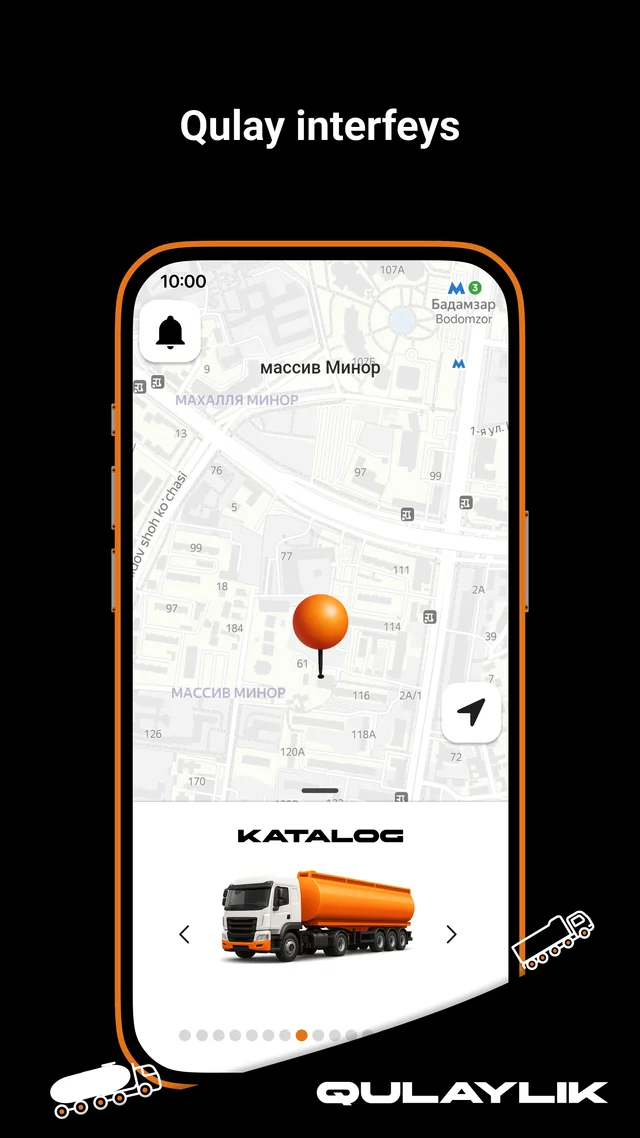
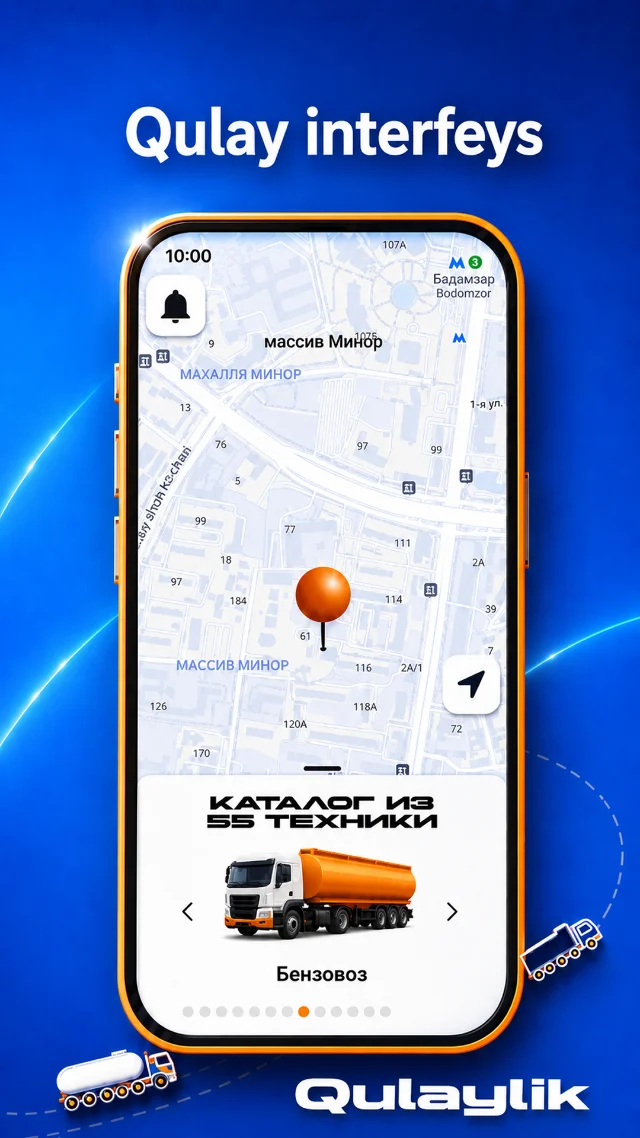
новая страница на сайте для направление трафика на тг канал_тест_оранжевый_13

diff --git a/site/index.css b/site/index.css
@@ -628,8 +628,13 @@ ul, ol {
     max-height: 360px;
   }
 
-  .hero-phone-secondary {
+  .hero-phone:not(.hero-phone-secondary) {
     display: none;
+  }
+
+  .hero-phone-secondary {
+    display: block;
+    transform: none;
   }
 }
 

diff --git a/index.html b/index.html
@@ -149,7 +149,7 @@
 
         <div class="hero-visual animate-on-scroll animate-delay-2">
           <img class="hero-phone" src="/public/1-hero.webp" alt="Интерфейс Reyzapp с картой" width="640" height="1138" loading="eager" fetchpriority="high" decoding="async" />
-          <img class="hero-phone hero-phone-secondary" data-src="/public/3-hero.webp" alt="Отслеживание техники на карте" width="640" height="1138" loading="lazy" fetchpriority="low" decoding="async" />
+          <img class="hero-phone hero-phone-secondary" src="/public/2-hero.webp" alt="Отслеживание техники на карте" width="640" height="1138" loading="lazy" fetchpriority="low" decoding="async" />
         </div>
       </div>
     </section>